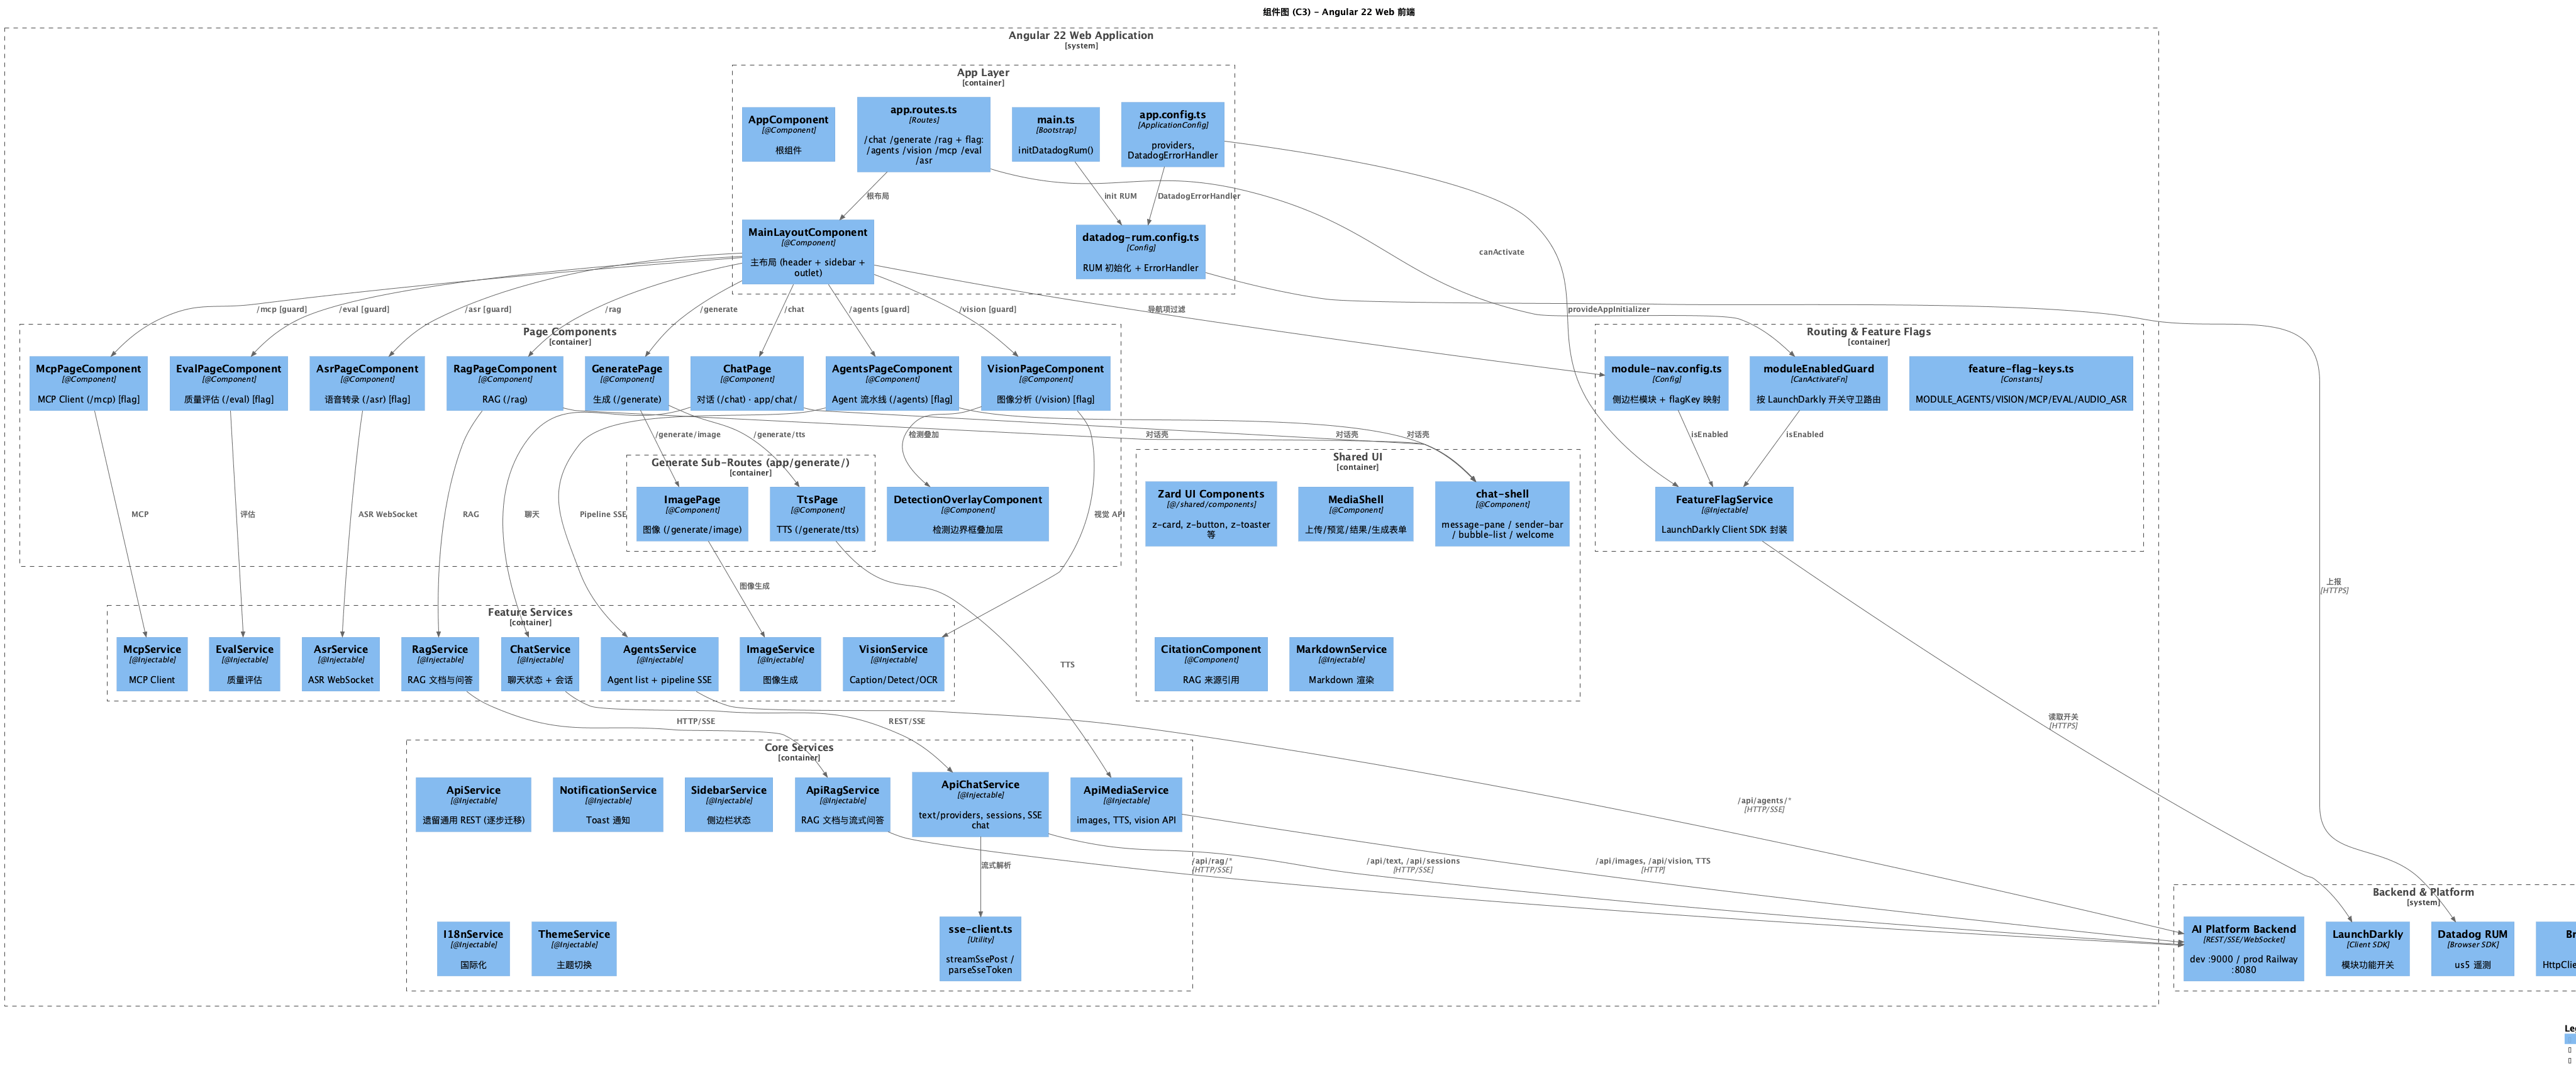
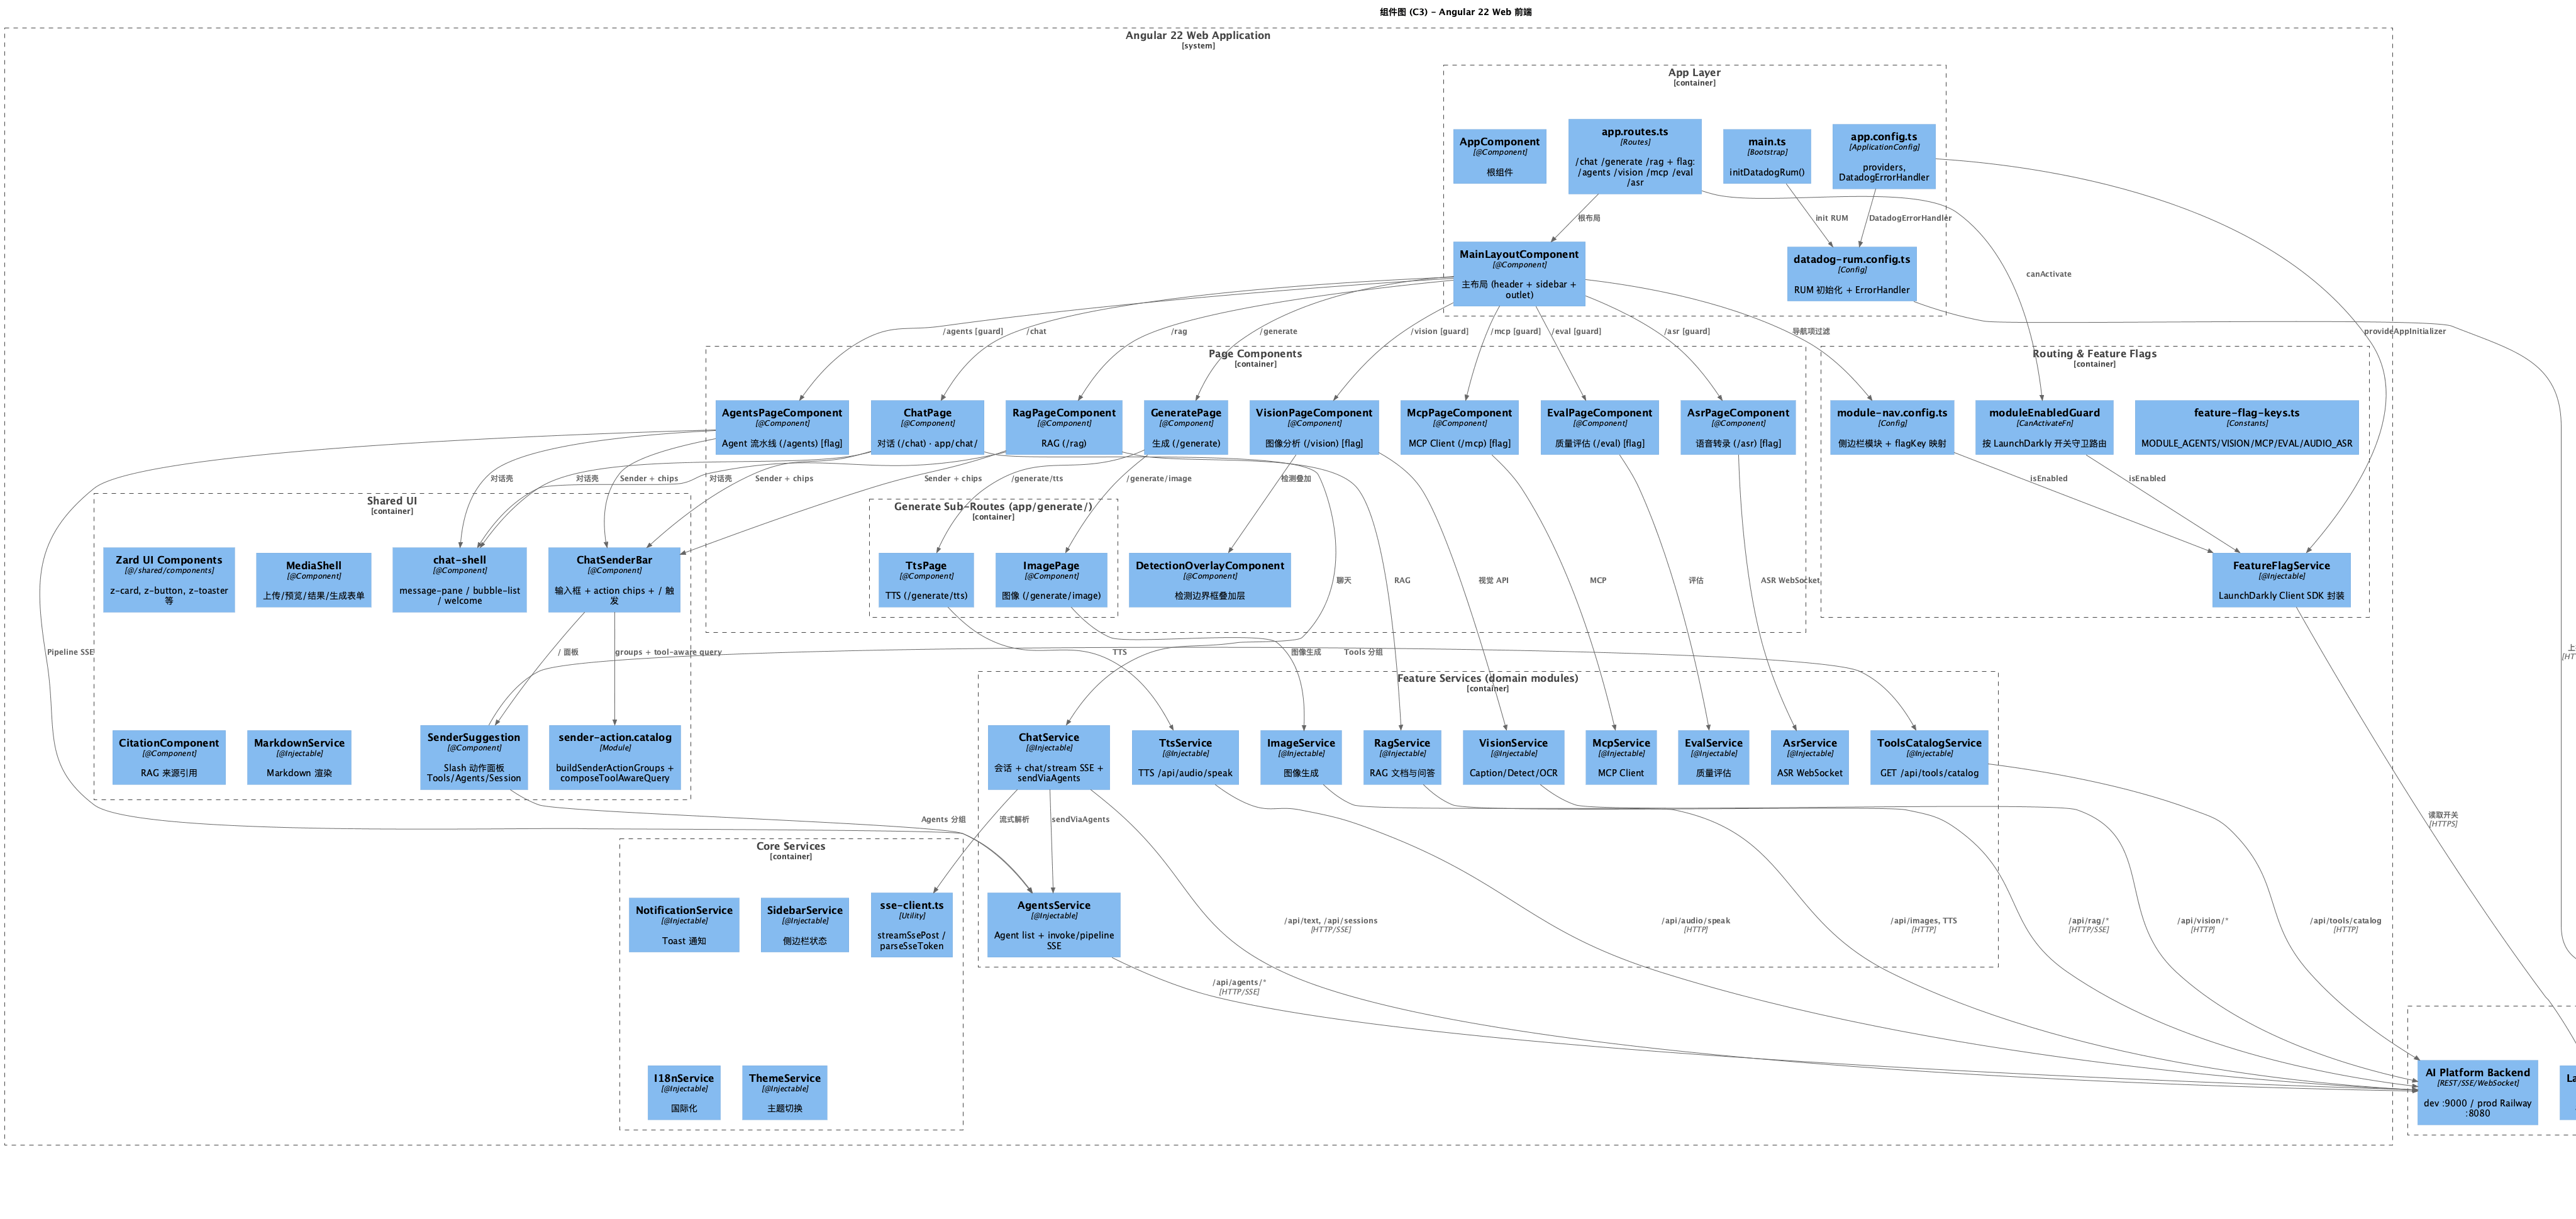
docs: sync C4 with Sender Suggestion
Keep container/component diagrams and README aligned with Tool Catalog and slash Sender Suggestion so architecture docs match the shipped Chat path.

References:
- [C4 model](https://c4model.com/)
- [C4-PlantUML](https://github.com/plantuml-stdlib/C4-PlantUML)
- [Spring AI Tool Calling](https://docs.spring.io/spring-ai/reference/api/tools.html)

Jira: https://felixzhu.atlassian.net/browse/AI-200

diff --git a/docs/c4-model/README.md b/docs/c4-model/README.md
@@ -9,7 +9,7 @@
 | `C1-Context.puml` | C1 | 系统上下文图（含 LaunchDarkly、Datadog、cloud-minimal prod） |
 | `C2-Container.puml` | C2 | 容器图（11 个子域 + 功能开关横切） |
 | `C3-Component-Backend.puml` | C3 | 后端组件图（Clean Architecture 四层） |
-| `C3-Component-Frontend.puml` | C3 | 前端组件图（路由守卫、chat-shell、分解 API 服务、RUM） |
+| `C3-Component-Frontend.puml` | C3 | 前端组件图（Sender Suggestion、chat-shell、domain services、RUM） |
 | `C4-Deployment.puml` | C4 | 本地开发环境部署图（:4200 → :9000） |
 | `C4-Deployment-Production.puml` | C4 | 生产部署图（Vercel + Railway explore-ai + datadog-agent + Datadog + LaunchDarkly） |
 
@@ -78,6 +78,20 @@
 
 Agent system prompt 来自 `AgentPromptCatalog` → `PromptTemplates.loadAgentSystemPrompt` → `classpath:prompts/agent/*.st`，并追加共享风格片段。
 
+### Tools Catalog + Sender Suggestion
+
+Chat / RAG / Agents 共用输入栏的 **`/` Sender Suggestion**：从后端工具目录与 Agent 列表组装动作，选中后以 chip 回填；发送时 Tools chip 走 tool-aware chat，Agents chip 走 `sendViaAgents`。
+
+| 层 | 组件 | 说明 |
+| --- | --- | --- |
+| API | `GET /api/tools/catalog` | `ToolsController` → `ToolsFacade.listCatalog()` |
+| Domain | `ToolCatalogEntry` / `ToolSource` / `ToolCatalogRepository` | LOCAL + MCP 元数据 |
+| Infra | `SpringAiToolCatalogRepository` | 与 Chat tool-calling 同源（`MethodToolCallbackProvider` + MCP `ToolCallback[]`） |
+| Frontend | `ToolsCatalogService` | 拉取 catalog |
+| Frontend | `SenderSuggestion` / `ChatSenderBar` | `/` 面板 + multi-chip |
+| Frontend | `sender-action.catalog` | `buildSenderActionGroups` / `composeToolAwareQuery` |
+| Frontend | `ChatService.sendViaAgents` | `POST /api/agents/{type}/invoke/sse` 顺序调用 |
+
 ### Prompt Catalog（横切）
 
 提示词作为工程资产外置到 `src/main/resources/prompts/`：
@@ -110,9 +124,9 @@ Agent system prompt 来自 `AgentPromptCatalog` → `PromptTemplates.loadAgentSy
 
 - **框架**: Angular 22 + TypeScript
 - **路由**: `/chat` / `/generate` (image, tts) / `/rag` + flag 守卫 `/agents` `/vision` `/mcp` `/eval` `/asr`
-- **对话壳**: `shared/components/chat-shell`（message-pane / sender-bar / bubble-list / welcome），供 Chat / RAG / Agents 共用
+- **对话壳**: `shared/components/chat-shell`（message-pane / bubble-list / welcome + **ChatSenderBar** / **SenderSuggestion**），供 Chat / RAG / Agents 共用
 - **实现目录**: `app/chat/`、`app/generate/{image,tts}/`（与业务域 / 路由对齐）
-- **API 服务**: `ApiChatService` / `ApiRagService` / `ApiMediaService` / `AgentsService` + `sse-client.ts`
+- **API 服务**: domain `ChatService` / `RagService` / `AgentsService` / `ToolsCatalogService` + `sse-client.ts`（已去掉 `Api*` 中间层）
 - **功能开关**: `FeatureFlagService` + `moduleEnabledGuard`（LaunchDarkly Client SDK）
 - **可观测性**: `datadog-rum.config.ts`
 - **端口**: dev 4200 (proxy `/api` → `:9000`) / prod Vercel 静态托管
@@ -121,11 +135,13 @@ Agent system prompt 来自 `AgentPromptCatalog` → `PromptTemplates.loadAgentSy
 
 | 端点 | 说明 |
 | --- | --- |
-| `POST /api/text/chat/stream` | SSE 流式对话（`TextController`） |
+| `POST /api/text/chat/stream` | SSE 流式对话（`TextController`；Tools chip → tool-aware query） |
 | `GET /api/text/providers` | 可用 LLM Provider |
 | `GET /api/text/models` | 模型列表 |
 | `POST /api/chat` | 非流式对话（`ChatController`） |
 | `GET/POST /api/sessions` | 会话 CRUD |
+| `GET /api/tools/catalog` | Tool Catalog（Sender Suggestion Tools 分组） |
+| `POST /api/agents/{type}/invoke/sse` | Agent chip → `ChatService.sendViaAgents` |
 
 ---
 